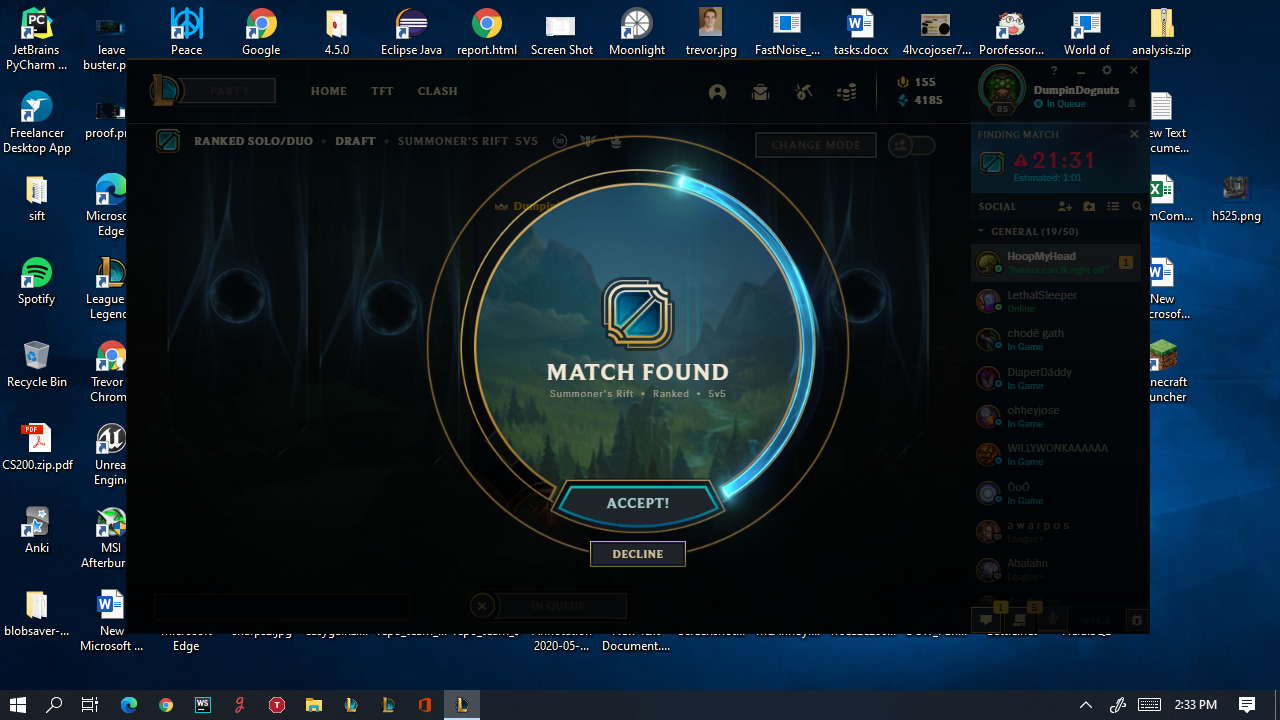
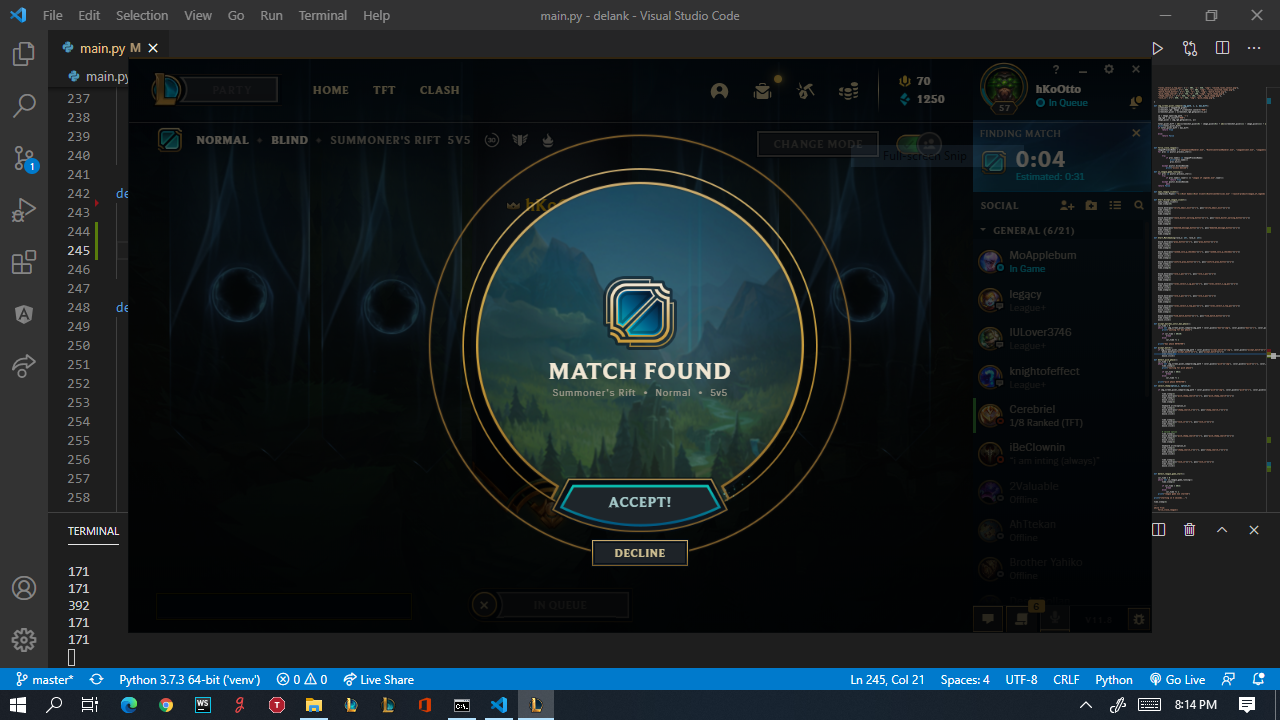
fixed accept match

diff --git a/main.py b/main.py
@@ -11,12 +11,12 @@ import psutil
 champion_ban = "trundle"
 champion_pick_1 = "master"
 champion_pick_2 = "warwick"
-img_path = "C:\\Users\\Trevor\\Documents\\delank\\images\\"
+img_path = "C:\\Users\\trevo\\Documents\\delank\\delank\\images\\"
 
 color_pixels = {
     "accept_match": {
-        'x': 640,
-        'y': 487,
+        'x': 644,
+        'y': 485,
         'img': 'match_found.png'
     },
     
@@ -128,6 +128,7 @@ def img_screen_pixel_compare(img_path, x, y, max_diff):
     image_pixel = img_rgb.getpixel((x, y))
     
     total_pixel_diff = abs(screenshot_pixel[0] - image_pixel[0]) + abs(screenshot_pixel[1] - image_pixel[1]) + abs(screenshot_pixel[2] - image_pixel[2])
+    print(total_pixel_diff)
     if total_pixel_diff < max_diff:
         return True
     
@@ -239,9 +240,12 @@ def accept_matches_until_ban_phase():
     print("ban phase DETECTED")
 
 def accept_match():
-    mouse.move(pos["accept_match"]["x"], pos["accept_match"]["y"])
     if img_screen_pixel_compare(img_path + color_pixels["accept_match"]["img"], color_pixels["accept_match"]["x"], color_pixels["accept_match"]["y"], 20):
+        mouse.move(pos["accept_match"]["x"], pos["accept_match"]["y"])
+        time.sleep(1)
         mouse.click()
+        time.sleep(1)
+        mouse.move(0,0)
 
 def detect_pick_phase():
     cur_time = 0
@@ -315,6 +319,7 @@ def detect_league_game_start():
 print("starting in 3 seconds...")
 
 time.sleep(3)
+
 
 while True:
     force_close_league()
